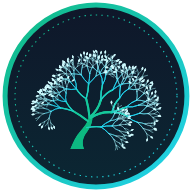
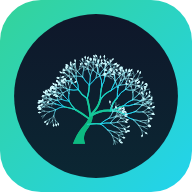
Icône : arbre grand sur fond vert, icône adaptative Android
Claude-Session: https://claude.ai/code/session_01HwPAuCduVsBrXG3mJiFBf5

diff --git a/nidami/public/sw.js b/nidami/public/sw.js
@@ -1,5 +1,5 @@
 // Mon cercle : fonctionne aussi sans réseau une fois ouvert une première fois.
-const C = "cercle-v2";
+const C = "cercle-v3";
 self.addEventListener("install", (e) => { self.skipWaiting(); e.waitUntil(caches.open(C).then((c) => c.addAll(["./", "./icon.svg", "./manifest.webmanifest"]).catch(() => {}))); });
 self.addEventListener("activate", (e) => { e.waitUntil(caches.keys().then((k) => Promise.all(k.filter((x) => x !== C).map((x) => caches.delete(x)))).then(() => self.clients.claim())); });
 self.addEventListener("fetch", (e) => {
